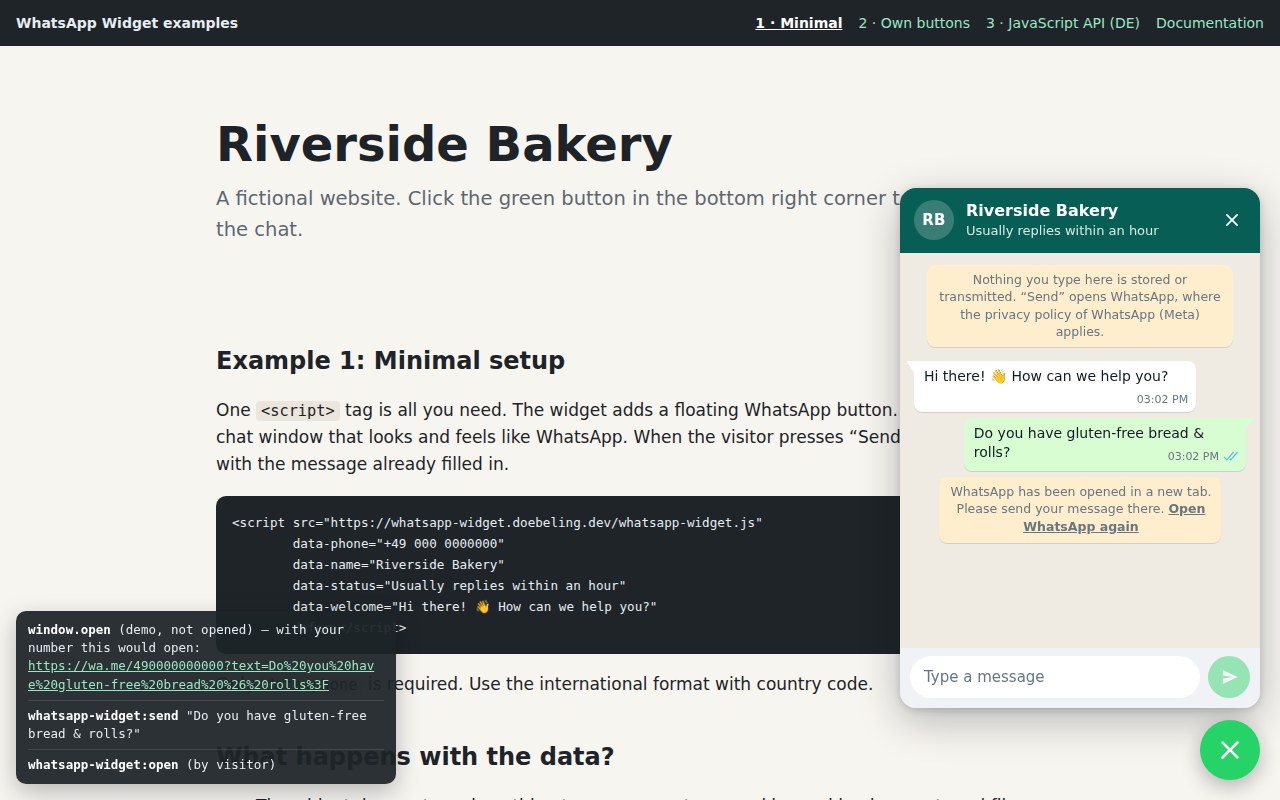
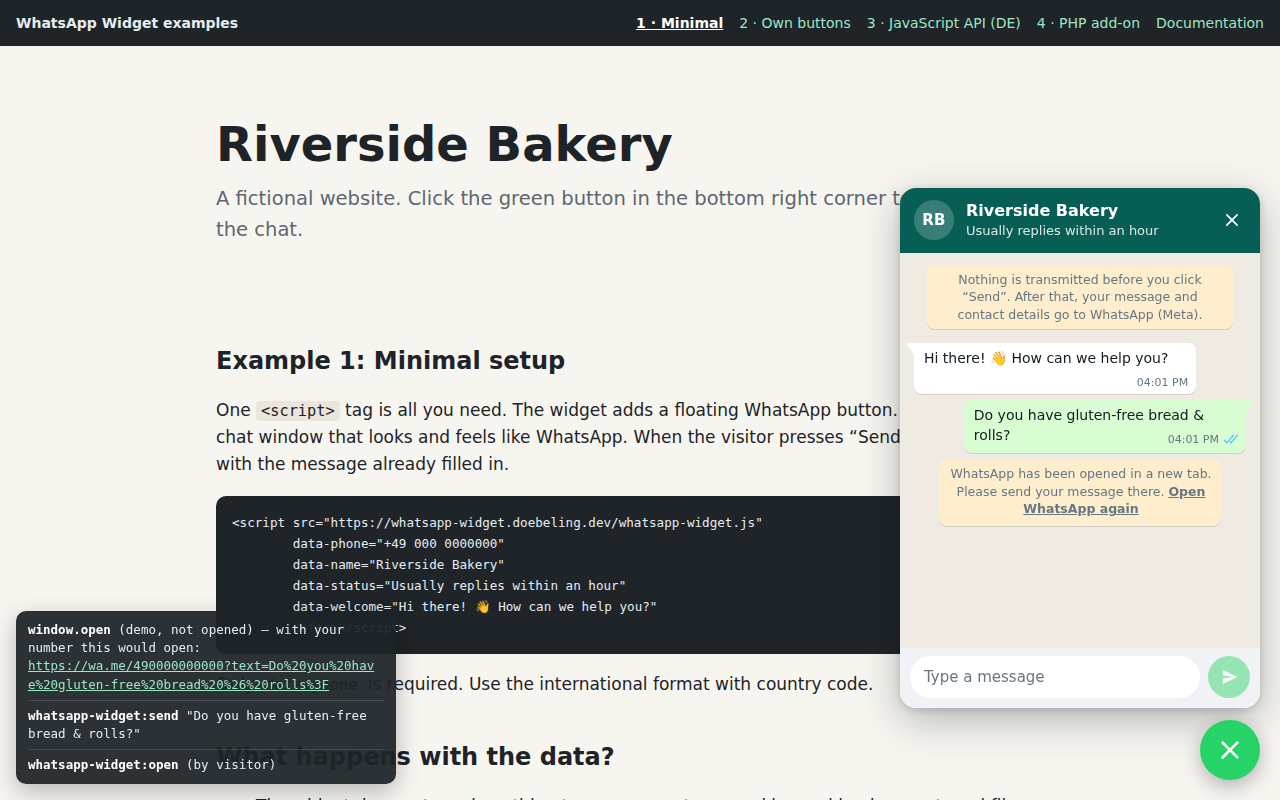
#9: Require visitor's phone with add-on, clearer privacy notice
- askPhone defaults to 'required' when notifyUrl is set, so a request
  reaches the owner even if WhatsApp Web is not set up. The PHP add-on
  rejects messages without phone number (phone_required).
- New privacy notice: nothing is transmitted before "Send", after that
  message and contact details go to WhatsApp (Meta); with the add-on,
  message and phone number also go to the owner by e-mail.
- German texts no longer use "du", so they fit any website.
- The chat confirms when the message has reached the owner, or asks to
  send it in WhatsApp if the request failed.
- README: GitHub Pages is only a mirror, main hosting in Germany.

Claude-Session: https://claude.ai/code/session_01DUaoGNatYmtRTouGXwPsFf

Changed region(s): [[0.6875, 0.3438, 0.9688, 0.6875], [0.5938, 0.0, 0.875, 0.0625], [0.5, 0.0, 0.5625, 0.0625]]

diff --git a/whatsapp-widget.js b/whatsapp-widget.js
@@ -37,7 +37,7 @@
     privacyUrl: '',       // link to your privacy policy
     typing: true,         // "typing…" animation before welcome messages
     notifyUrl: '',        // optional self-hosted endpoint that receives the message (see addons/php/)
-    askPhone: false,      // false | 'optional' | 'required' - asks for the visitor's number (needs notifyUrl)
+    askPhone: null,       // 'required' | 'optional' | false - visitor's number; default 'required' with notifyUrl
   };
 
   const I18N = {
@@ -45,33 +45,37 @@
       open: 'Open WhatsApp chat',
       close: 'Close chat',
       placeholder: 'Type a message',
-      inputLabel: 'Your message',
+      inputLabel: 'Message',
       send: 'Send',
       typing: 'typing…',
-      privacy: 'Nothing you type here is stored or transmitted. “Send” opens WhatsApp, where the privacy policy of WhatsApp (Meta) applies.',
+      privacy: 'Nothing is transmitted before you click “Send”. After that, your message and contact details go to WhatsApp (Meta).',
       privacyLink: 'Privacy policy',
       opened: 'WhatsApp has been opened in a new tab. Please send your message there.',
       reopen: 'Open WhatsApp again',
       unread: (n) => `${n} unread message${n === 1 ? '' : 's'}`,
-      privacyNotify: (withPhone) => `“Send” transmits your message${withPhone ? ' and phone number' : ''} to us and opens WhatsApp, where the privacy policy of WhatsApp (Meta) applies.`,
-      phoneLabel: 'Your phone number, so we can reply',
-      phoneOptional: 'Your phone number (optional), so we can reply',
+      privacyNotify: (askPhone) => `Nothing is transmitted before you click “Send”. After that, your message${{ required: ' and phone number', optional: ' and phone number (if given)' }[askPhone] || ''} go${askPhone ? '' : 'es'} to us by e-mail, and your message and contact details go to WhatsApp (Meta).`,
+      phoneLabel: 'Phone number, so we can reply',
+      phoneOptional: 'Phone number (optional), so we can reply',
+      notified: 'Your message has reached us. We will get back to you, even if WhatsApp does not work.',
+      notifyFailed: 'Your message could not be sent to us. Please send it in WhatsApp.',
     },
     de: {
       open: 'WhatsApp-Chat öffnen',
       close: 'Chat schließen',
       placeholder: 'Nachricht schreiben',
-      inputLabel: 'Deine Nachricht',
+      inputLabel: 'Nachricht',
       send: 'Senden',
       typing: 'schreibt …',
-      privacy: 'Hier wird nichts gespeichert oder übertragen. „Senden“ öffnet WhatsApp – dort gilt die Datenschutzerklärung von WhatsApp (Meta).',
+      privacy: 'Vor dem Klick auf „Senden“ wird nichts übertragen. Danach gehen Nachricht und Kontaktdaten an WhatsApp (Meta).',
       privacyLink: 'Datenschutzerklärung',
-      opened: 'WhatsApp wurde in einem neuen Tab geöffnet. Bitte sende deine Nachricht dort ab.',
+      opened: 'WhatsApp wurde in einem neuen Tab geöffnet. Bitte die Nachricht dort absenden.',
       reopen: 'WhatsApp erneut öffnen',
       unread: (n) => `${n} ungelesene Nachricht${n === 1 ? '' : 'en'}`,
-      privacyNotify: (withPhone) => `„Senden“ übermittelt deine Nachricht${withPhone ? ' und Telefonnummer' : ''} an uns und öffnet WhatsApp – dort gilt die Datenschutzerklärung von WhatsApp (Meta).`,
-      phoneLabel: 'Deine Telefonnummer, damit wir antworten können',
-      phoneOptional: 'Deine Telefonnummer (optional), damit wir antworten können',
+      privacyNotify: (askPhone) => `Vor dem Klick auf „Senden“ wird nichts übertragen. Danach gehen Nachricht${{ required: ' und Telefonnummer', optional: ' und ggf. Telefonnummer' }[askPhone] || ''} per E-Mail an uns sowie Nachricht und Kontaktdaten an WhatsApp (Meta).`,
+      phoneLabel: 'Telefonnummer für unsere Rückmeldung',
+      phoneOptional: 'Telefonnummer für unsere Rückmeldung (optional)',
+      notified: 'Die Nachricht ist bei uns angekommen. Wir melden uns – auch wenn WhatsApp nicht klappt.',
+      notifyFailed: 'Die Nachricht konnte nicht an uns übermittelt werden. Bitte in WhatsApp absenden.',
     },
   };
 
@@ -505,6 +509,9 @@
     config.autoOpen = toSeconds(config.autoOpen);
     config.target = ['web', 'app'].includes(config.target) ? config.target : 'auto';
     config.theme = ['dark', 'auto'].includes(config.theme) ? config.theme : 'light';
+    if (config.askPhone === null || config.askPhone === undefined || config.askPhone === '') {
+      config.askPhone = config.notifyUrl ? 'required' : false; // a message without a number can't be answered
+    }
     config.askPhone = ['optional', 'required'].includes(config.askPhone) ? config.askPhone : false;
     if (config.askPhone && !config.notifyUrl) {
       console.warn(`${LOG_PREFIX} "askPhone" needs "notifyUrl", otherwise nobody receives the number. Ignored.`);
@@ -553,7 +560,7 @@
       });
 
       this.messagesEl = el('div', { className: 'waw-messages', role: 'log', 'aria-live': 'polite' });
-      const defaultNotice = config.notifyUrl ? t.privacyNotify(Boolean(config.askPhone)) : t.privacy;
+      const defaultNotice = config.notifyUrl ? t.privacyNotify(config.askPhone) : t.privacy;
       const notice = config.privacyNotice === null ? defaultNotice : String(config.privacyNotice);
       if (notice) {
         const noticeEl = el('p', { className: 'waw-notice', text: `${notice} ` });
@@ -738,10 +745,7 @@
       this.input.value = '';
       this.updateComposer();
 
-      const info = el('div', { className: 'waw-bubble info', text: `${this.t.opened} ` });
-      info.append(el('a', { href: url, target: '_blank', rel: 'noopener', text: this.t.reopen }));
-      this.messagesEl.append(info);
-      this.scrollToBottom();
+      this.addInfo(this.t.opened, { href: url, text: this.t.reopen });
     }
 
     /**
@@ -752,9 +756,20 @@
     notify({ message, phone }) {
       const body = new URLSearchParams({ message, page: window.location.origin + window.location.pathname });
       if (phone) body.append('phone', phone);
+      const done = (ok, status) => {
+        this.addInfo(ok ? this.t.notified : this.t.notifyFailed);
+        this.emit('notify', { ok, status });
+      };
       fetch(this.config.notifyUrl, { method: 'POST', body, keepalive: true, credentials: 'omit' })
-        .then((response) => this.emit('notify', { ok: response.ok, status: response.status }))
-        .catch(() => this.emit('notify', { ok: false, status: 0 }));
+        .then((response) => done(response.ok, response.status))
+        .catch(() => done(false, 0));
+    }
+
+    addInfo(text, link) {
+      const info = el('div', { className: 'waw-bubble info', text: link ? `${text} ` : text });
+      if (link) info.append(el('a', { href: link.href, target: '_blank', rel: 'noopener', text: link.text }));
+      this.messagesEl.append(info);
+      this.scrollToBottom();
     }
 
     isComposerValid() {

diff --git a/examples/04-php-addon.html b/examples/04-php-addon.html
@@ -31,24 +31,25 @@
     <h2>Example 4: Optional e-mail notification</h2>
     <p>The widget itself needs no server. If you want an e-mail for every message, upload the add-on
       <a href="https://github.com/DOEBELING/WhatsApp-Widget/blob/main/addons/php/whatsapp-notify.php"><code>whatsapp-notify.php</code></a>
-      to your own web server (PHP 8.1+) and point the widget to it:</p>
+      to your own web server (PHP 8.1+), enter your e-mail address and point the widget to it:</p>
     <pre><code>&lt;script src="/js/whatsapp-widget.js"
         data-phone="+49 000 0000000"
         data-name="Studio Example"
         data-welcome="Hello! Tell us about your project.|We usually reply within a day."
         data-notify-url="/whatsapp-notify.php"
-        data-ask-phone="optional"
         data-privacy-url="/privacy"
         defer&gt;&lt;/script&gt;</code></pre>
     <ul>
       <li><code>data-notify-url</code>: “Send” posts the message to this URL and then opens WhatsApp.</li>
-      <li><code>data-ask-phone</code>: <code>optional</code> or <code>required</code> shows a field for the visitor's number.
-        The e-mail contains a link to reply on WhatsApp.</li>
-      <li>The privacy notice in the chat changes automatically: it says that the message is transmitted to you.
-        Link your privacy policy with <code>data-privacy-url</code>.</li>
+      <li>With <code>data-notify-url</code>, the chat asks for the visitor's phone number (required by default).
+        If WhatsApp Web is not set up on the visitor's computer, you still get the message and can call back.
+        The e-mail contains a link to reply on WhatsApp. Use <code>data-ask-phone="optional"</code> or
+        <code>"false"</code> to change this.</li>
+      <li>The privacy notice in the chat changes automatically: it says that message and phone number go to you by
+        e-mail. Link your privacy policy with <code>data-privacy-url</code>.</li>
     </ul>
-    <p class="note">GitHub Pages cannot run PHP. On this page, the small log in the bottom left corner shows the request
-      instead of sending it.</p>
+    <p class="note">This demo does not send e-mails. The small log in the bottom left corner shows the request instead
+      of sending it.</p>
   </section>
 
   <section>
@@ -79,7 +80,6 @@ Time: 2026-09-25 17:52:20 CEST</code></pre>
         data-name="Studio Example"
         data-welcome="Hello! Tell us about your project.|We usually reply within a day."
         data-notify-url="/whatsapp-notify.php"
-        data-ask-phone="optional"
         data-privacy-url="#privacy"
         defer></script>
 </body>

diff --git a/addons/php/whatsapp-notify.php b/addons/php/whatsapp-notify.php
@@ -39,6 +39,10 @@ $config = [
     // Empty: only pages on the same host as this script.
     'allowed_origins' => [],
 
+    // Reject messages without the visitor's phone number. Keep this in line with the
+    // widget option data-ask-phone (default with data-notify-url: "required").
+    'phone_required' => true,
+
     // Used to turn national numbers ("0176 …") into a WhatsApp link ("49176 …").
     'default_country_code' => '49',
 
@@ -156,7 +160,7 @@ $length = function_exists('mb_strlen') ? mb_strlen($message, 'UTF-8') : strlen($
 if ($message === '' || $length > $config['max_message_length']) {
     respond(422);
 }
-if ($phone !== '' && !isPlausiblePhone($phone)) {
+if ($phone === '' ? $config['phone_required'] : !isPlausiblePhone($phone)) {
     respond(422);
 }
 if ($page !== '' && (strlen($page) > 500 || !preg_match('#^https?://#i', $page))) {

diff --git a/README.md b/README.md
@@ -68,7 +68,7 @@ Use `data-*` attributes on the script tag, or pass the same options (in camelCas
 | `data-privacy-url` | `privacyUrl` | – | Link to your privacy policy, shown in the privacy notice. |
 | `data-privacy-notice` | `privacyNotice` | localised | Your own privacy notice. An empty value hides it. |
 | `data-notify-url` | `notifyUrl` | – | URL of your [PHP add-on](#optional-e-mail-notification-php-add-on). “Send” posts the message there first. |
-| `data-ask-phone` | `askPhone` | `false` | `optional` or `required`: asks for the visitor's phone number. Needs `notify-url`. |
+| `data-ask-phone` | `askPhone` | `required` with `notify-url` | Asks for the visitor's phone number: `required`, `optional` or `false`. Only works with `notify-url`. |
 
 Example with JavaScript:
 
@@ -130,22 +130,25 @@ is not set up on their computer. If you don't want to lose these requests, use t
 not on GitHub Pages.
 
 1. Download the file, set your e-mail address at the top and upload it to your web server (PHP 8.1+).
-2. Point the widget to it and, if you like, ask for the visitor's phone number:
+2. Point the widget to it:
 
    ```html
    <script src="/js/whatsapp-widget.js"
            data-phone="+49 911 1234567"
            data-notify-url="/whatsapp-notify.php"
-           data-ask-phone="optional"
            data-privacy-url="/privacy"
            defer></script>
    ```
+
+   The chat now asks for the visitor's phone number (required). So you can call back even if the
+   visitor never sends the message in WhatsApp. Use `data-ask-phone="optional"` or `"false"` to change
+   this, and set `phone_required` in the PHP file to match.
 
 3. Update your privacy policy: with the add-on, the message (and phone number) goes to your server
    and mailbox before WhatsApp opens.
 
 When the visitor presses “Send”, the widget posts the message to the add-on and opens WhatsApp at the
-same time. You get an e-mail like this:
+same time. The chat confirms that the message has reached you. You get an e-mail like this:
 
 ```text
 New message via the WhatsApp widget
@@ -166,7 +169,7 @@ What the add-on does for security and privacy:
 - Limits the message length and the number of mails per hour.
 - Stores nothing and writes no logs. Does not send or read cookies.
 
-The privacy notice in the chat changes automatically when `notifyUrl` is set.
+The privacy notice in the chat changes automatically when `notifyUrl` is set (see below).
 
 ## Styling
 
@@ -188,7 +191,16 @@ More properties: `--waw-header-text`, `--waw-chat-bg`, `--waw-panel-bg`, `--waw-
 
 ## Privacy and GDPR
 
-The widget is built for data minimisation:
+The widget is built for data minimisation. The notice at the top of the chat says what happens:
+
+| Setup | Notice (English / German) |
+| --- | --- |
+| Widget only | Nothing is transmitted before you click “Send”. After that, your message and contact details go to WhatsApp (Meta). <br> *Vor dem Klick auf „Senden“ wird nichts übertragen. Danach gehen Nachricht und Kontaktdaten an WhatsApp (Meta).* |
+| With PHP add-on | Nothing is transmitted before you click “Send”. After that, your message and phone number go to us by e-mail, and your message and contact details go to WhatsApp (Meta). <br> *Vor dem Klick auf „Senden“ wird nichts übertragen. Danach gehen Nachricht und Telefonnummer per E-Mail an uns sowie Nachricht und Kontaktdaten an WhatsApp (Meta).* |
+
+The German texts avoid “du” and “Sie”, so they fit any website. Use `privacyNotice` for your own text.
+
+In detail:
 
 1. **Before “Send”:** The widget runs only in the browser. It sends no requests, sets no cookies and
    uses no local storage. Icons are inline SVG, fonts are system fonts.
@@ -197,11 +209,11 @@ The widget is built for data minimisation:
 3. **Only with the PHP add-on:** “Send” also transmits the message (and phone number, if asked) to your
    own server, which e-mails it to you. The notice in the chat says so.
 
-**Host the file yourself.** If you load `whatsapp-widget.js` from `whatsapp-widget.doebeling.dev`, the
-visitor's browser connects to GitHub Pages and transmits the IP address, like with any externally
-hosted script or font. For the strictest setup, download
-[`whatsapp-widget.js`](whatsapp-widget.js), upload it to your own server and change the `src`.
-Host the avatar image yourself, too.
+**Hosting.** `whatsapp-widget.doebeling.dev` runs on a server in Germany. GitHub Pages is only a
+mirror. If you load `whatsapp-widget.js` from one of them, the visitor's browser connects to a
+third-party server and transmits the IP address, like with any externally hosted script or font. For the strictest
+setup, download [`whatsapp-widget.js`](whatsapp-widget.js), upload it to your own server and change
+the `src`. Host the avatar image yourself, too.
 
 Mention WhatsApp as a contact channel in your privacy policy. This is not legal advice.
 
